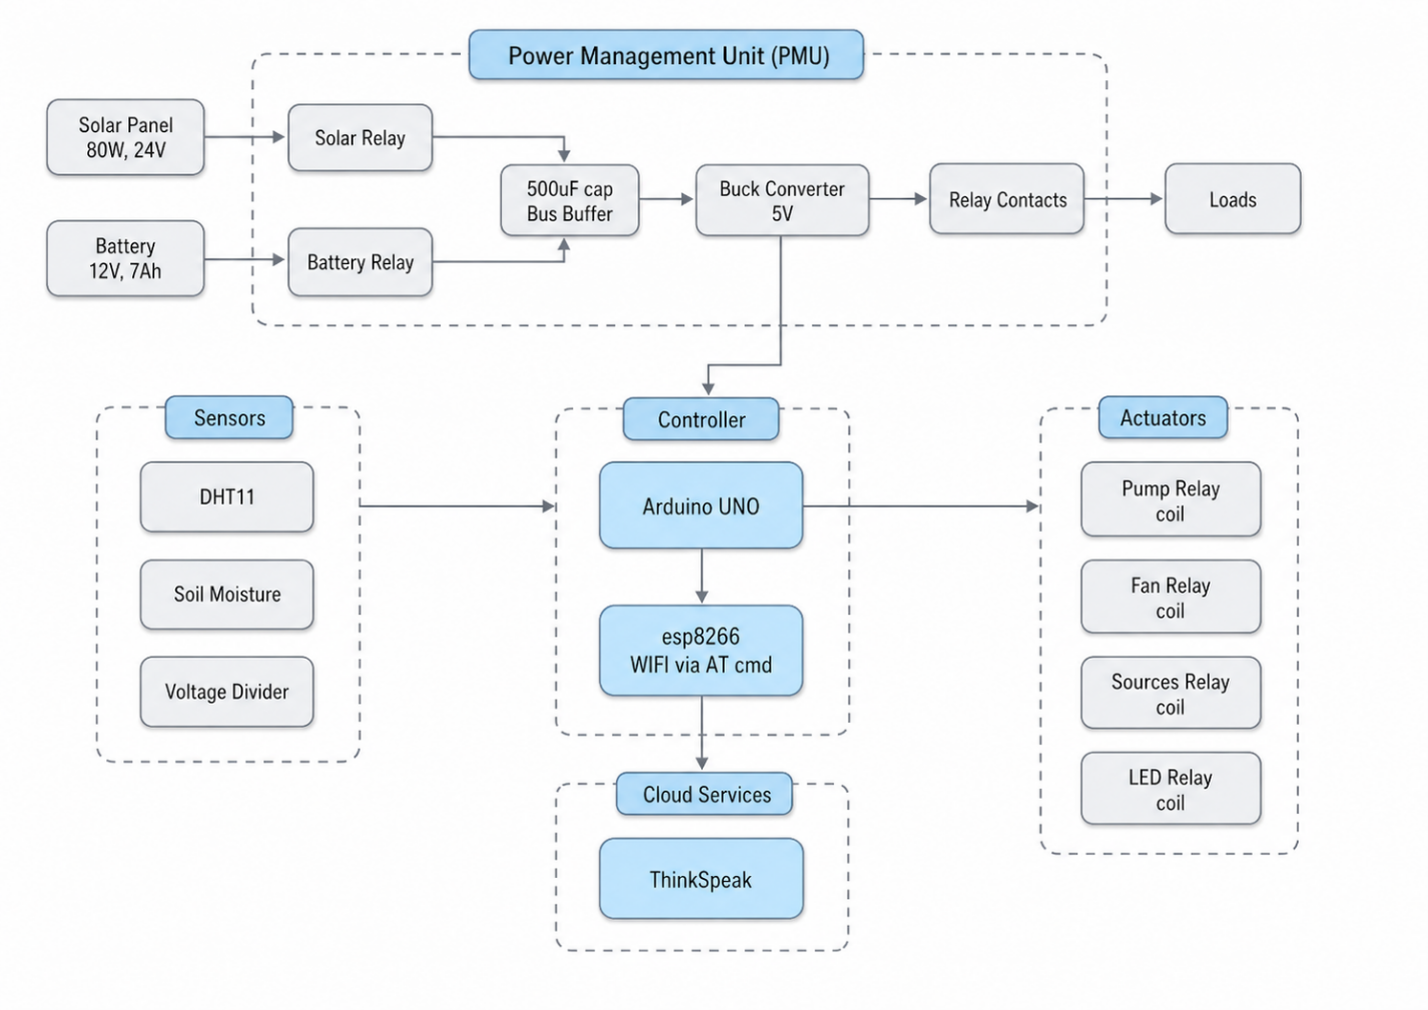
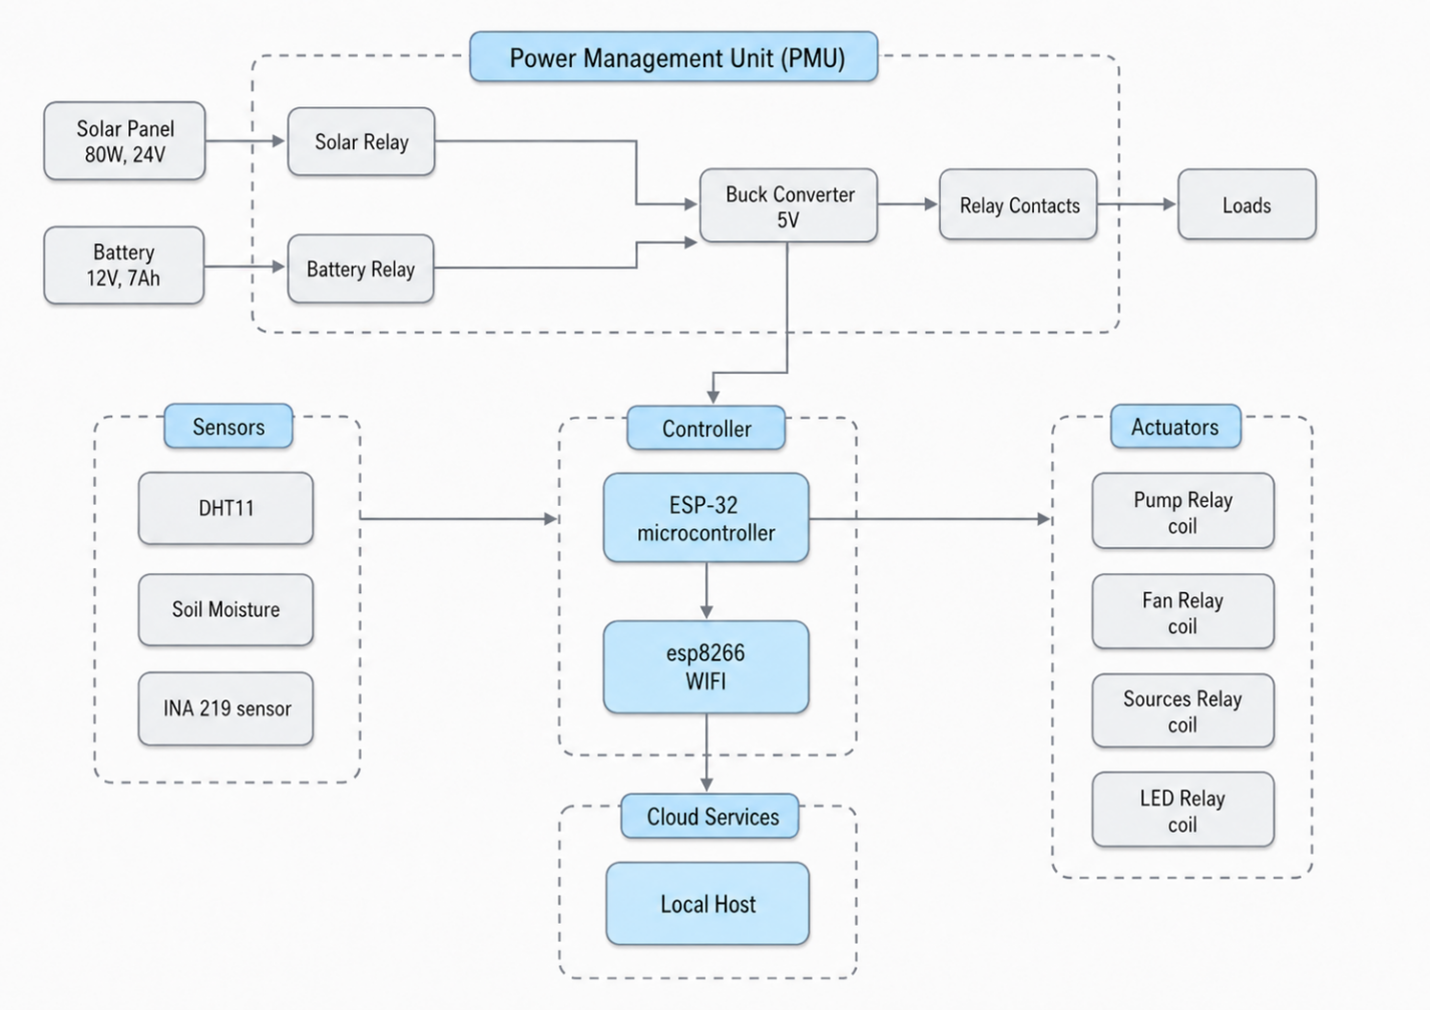
uploaded the correct architecture image, small README changes

diff --git a/README.md b/README.md
@@ -28,7 +28,7 @@ The architecture diagram shows the power management unit, sensors, controller, a
 - Automatic fan control based on temperature/humidity thresholds
 - Automatic source selection between solar and battery power
 - OLED display with live status
-- Web dashboard at `/`
+- Web dashboard
 - JSON status endpoint at `/json`
 
 ## Hardware